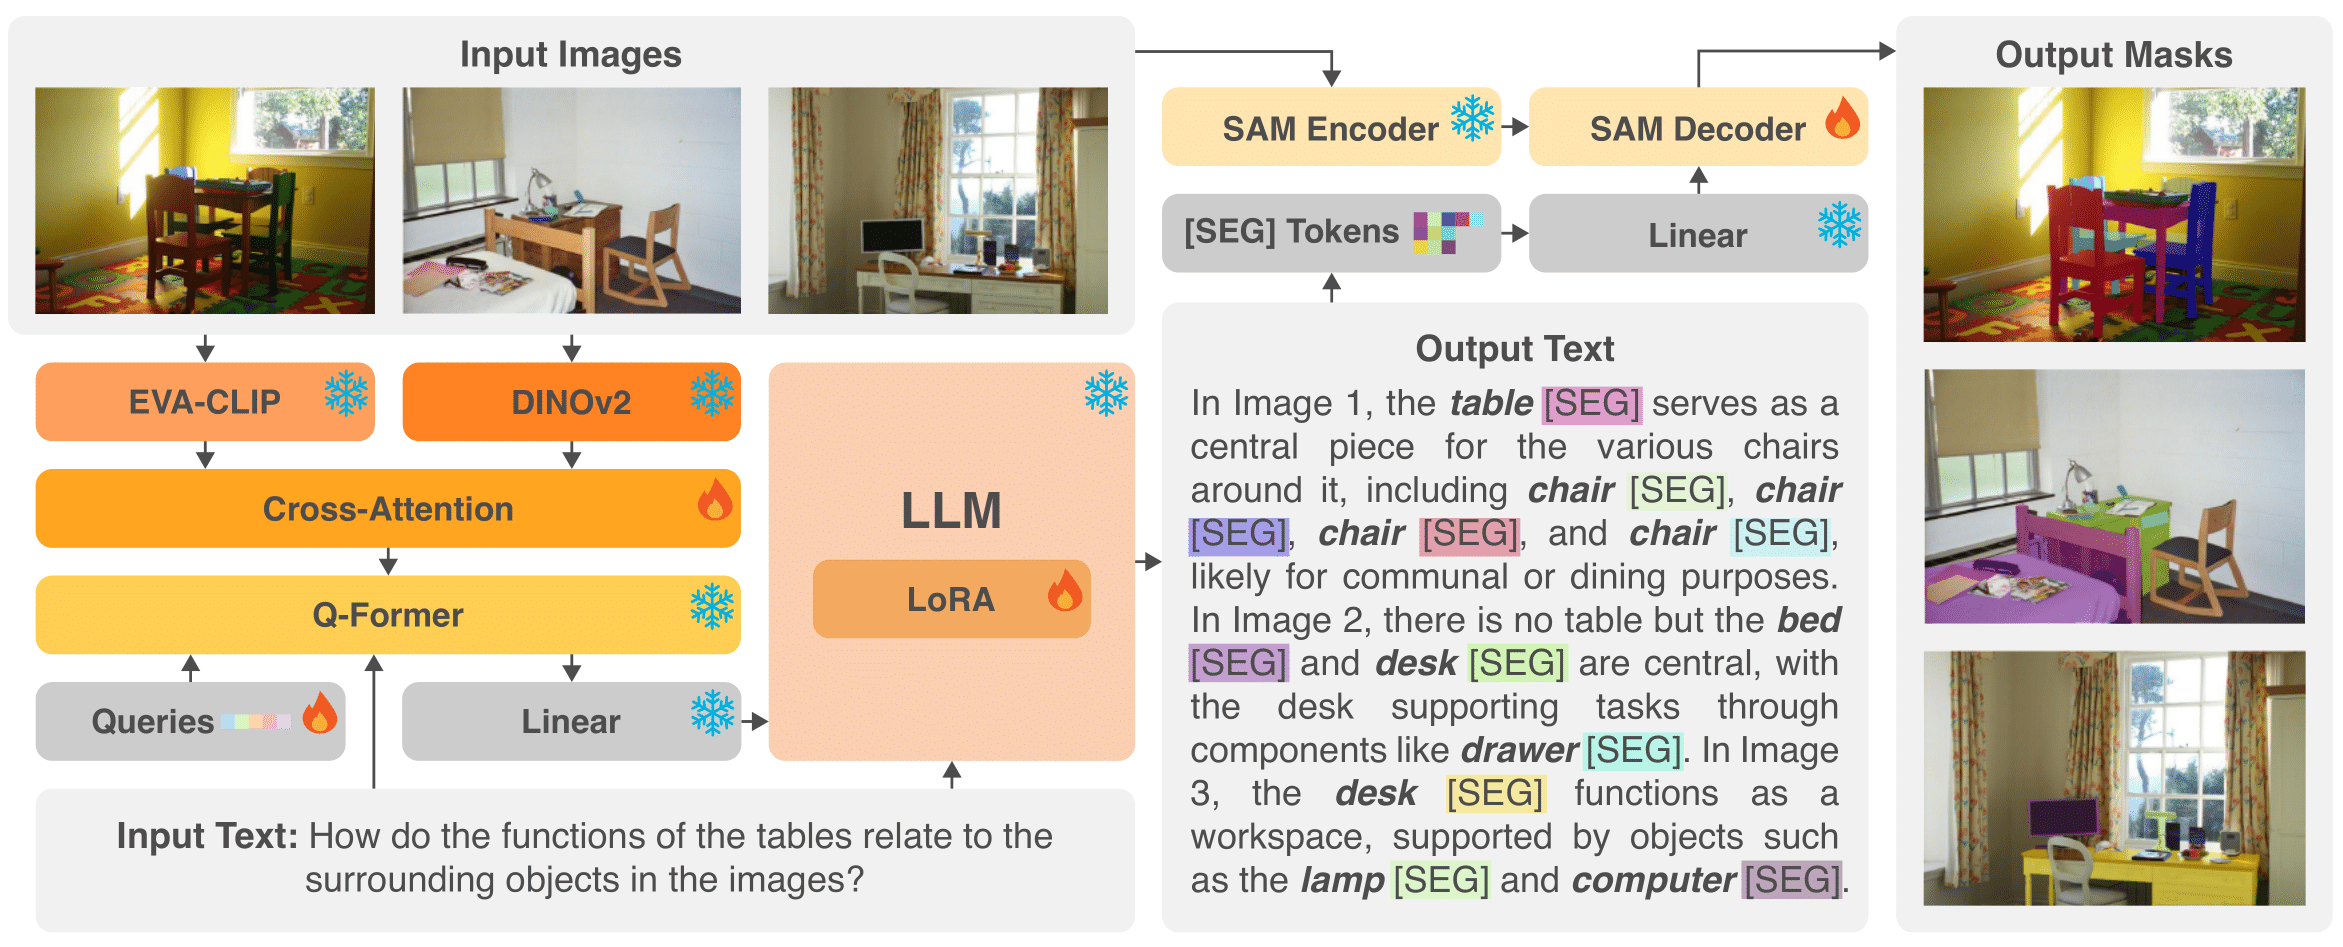
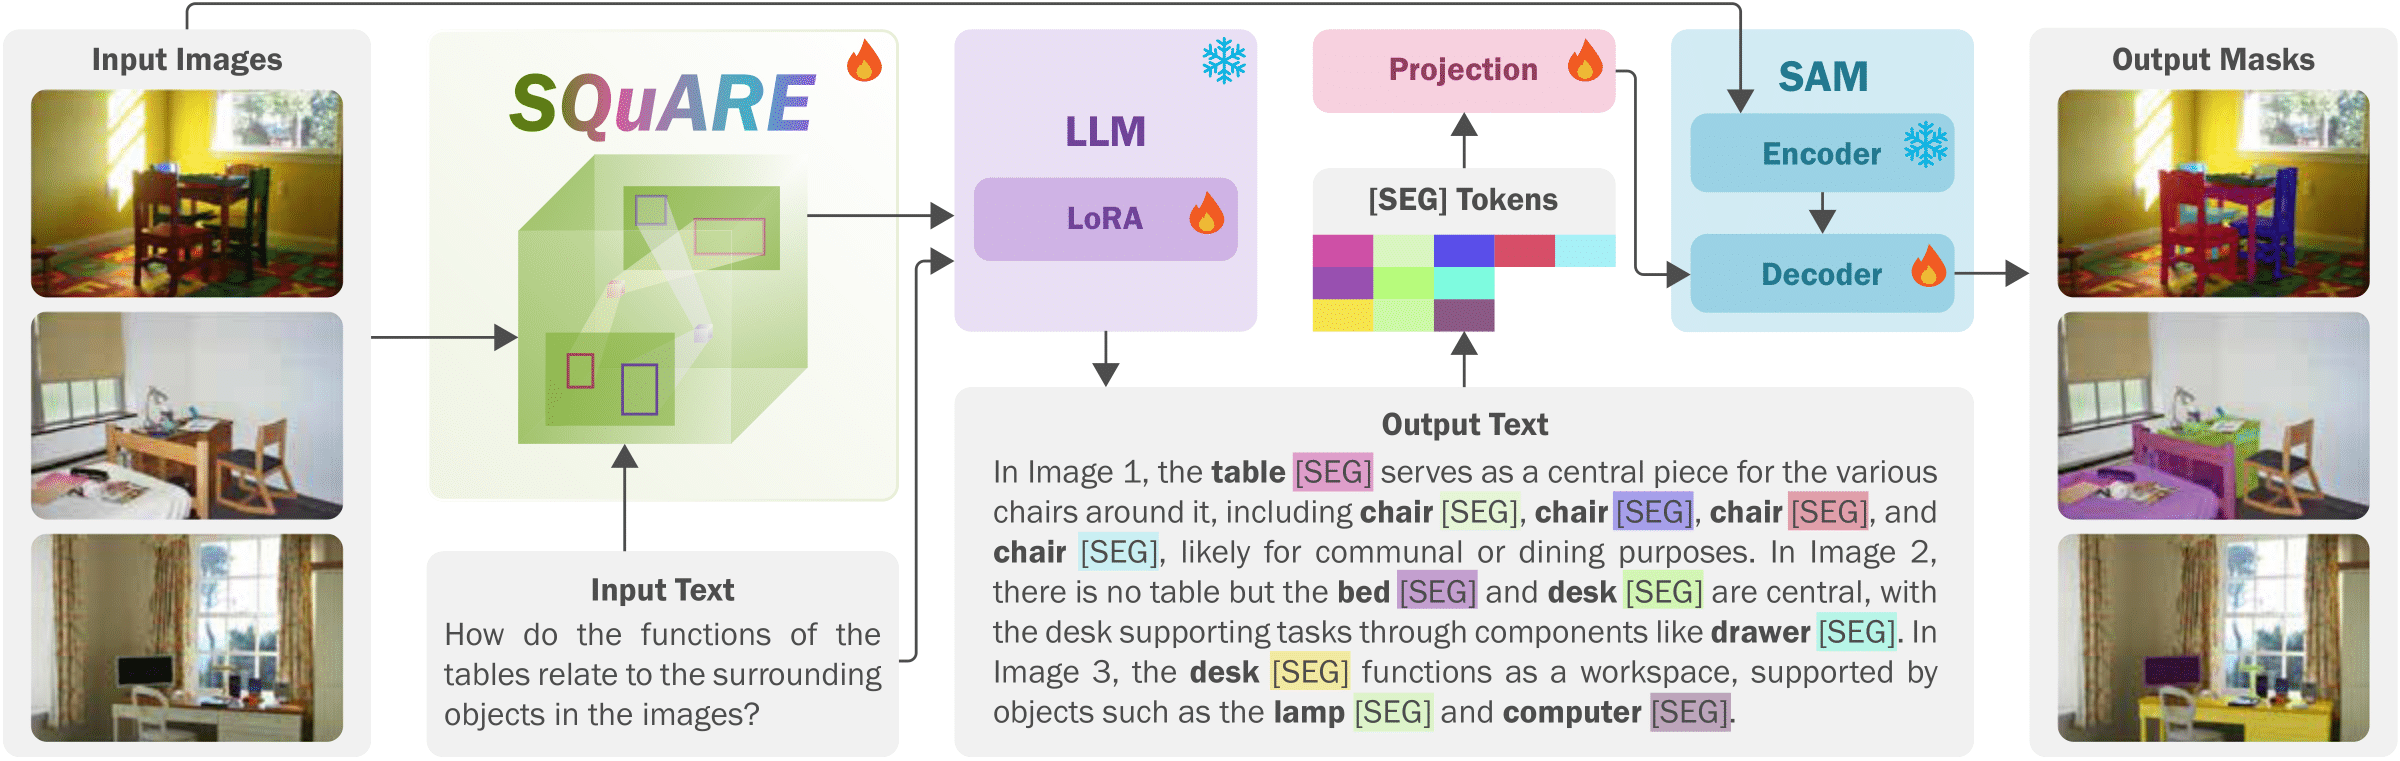
project  updatepdate

diff --git a/projects/prima/index.html b/projects/prima/index.html
@@ -146,7 +146,7 @@
         <div class="content has-text-justified">
           <span style="font-weight: bold;">TL;DR:</span> We introduce
           the task of <span style="font-style: italic;">multi-image pixel-grounded reasoning segmentation</span>,
-          with the release of the <span class="model-name">M<sup>4</sup>Seg</span> benchmark consisting of ∼224K
+          with the release of the <span class="model-name">M<sup>4</sup>Seg</span> benchmark consisting of ∼744K
           question-answer pairs
           that require fine-grained visual understanding across multiple images,
           and the <span class="model-name">PRIMA</span> LVLM model that combines
@@ -155,10 +155,15 @@
         <img src="./static/images/prima_teaser.png" class="interpolation-image"
           alt="Interpolate start reference image." />
         <div class="content has-text-justified">
-          Our proposed <span style="font-style: italic;">multi-image pixel-grounded reasoning segmentation</span> task
-          at both object and part levels, where the goal is to achieve fine-grained comparison and contextual
-          understanding
-          across multiple images at pixel level and produce responses grounded in specific objects and parts.
+          We introduce the new task of 
+          <span style="font-style: italic; font-weight: bold;">multi-image pixel-grounded reasoning segmentation</span>. 
+          To support this task, we curate <span class="model-name">M<sup>4</sup>Seg</span>, 
+          a benchmark providing question-answer (QA) pairs alongside image sets with 
+          pixel-level annotations. Additionally, we propose 
+          <span class="model-name">PRIMA</span>, a model trained on 
+          <span class="model-name">M<sup>4</sup>Seg</span>, designed to efficiently identify 
+          and compare objects' contextual relationships across scenes. 
+          We focus on four key categories essential for multi-image understanding: functional, spatial, numerical, and open-ended reasoning.
         </div>
       </div>
     </div>
@@ -173,22 +178,24 @@
           <h2 class="title is-3">📝 Abstract</h2>
           <div class="content has-text-justified">
             <p>
-              Despite significant advancements in Large Vision-Language Models (LVLMs),
-              existing pixel-grounding models operate on single-image settings,
-              limiting their ability to perform detailed, fine-grained comparisons across multiple images.
-              Conversely, current multi-image understanding models lack pixel-level grounding.
-              Our work addresses this gap by introducing the task of
+              Despite significant advancements in Large Vision-Language Models (LVLMs)' capabilities, 
+              existing pixel-grounding models operate in single-image settings, 
+              limiting their ability to perform detailed, fine-grained comparisons across 
+              multiple images. Conversely, current multi-image understanding models lack 
+              pixel-level grounding. Our work addresses this gap by introducing the task of 
               <span style="font-style: italic; font-weight: bold;">multi-image pixel-grounded reasoning
-                segmentation</span>,
-              and <span class="model-name">PRIMA</span>, a novel LVLM that integrates pixel-level grounding with robust
-              multi-image reasoning capabilities
-              to produce contextually rich, pixel-grounded explanations.
-              Central to PRIMA is an efficient vision module that queries fine-grained visual representations
-              across multiple images, reducing TFLOPs by 25.3%. To support training and evaluation,
-              we curate <span class="model-name">M<sup>4</sup>Seg</span>, a new reasoning segmentation benchmark
-              consisting of ∼224K question-answer pairs
-              that require fine-grained visual understanding across multiple images.
-              Experimental results demonstrate PRIMA outperforms state-of-the-art baselines.
+                segmentation</span> alongside <span class="model-name">PRIMA</span>, 
+                an LVLM that integrates pixel-level grounding with robust multi-image reasoning 
+                to produce contextually rich, pixel-grounded explanations. 
+                Central to <span class="model-name">PRIMA</span> is <span class="model-name">SQuARE</span>, 
+                a vision module that injects cross-image relational context into compact query-based 
+                visual tokens before fusing them with the language backbone. 
+                To support training and evaluation, we curate <span class="model-name">M<sup>4</sup>Seg</span>, a new multi-image reasoning 
+                segmentation benchmark consisting of ~744K question-answer pairs that require 
+                fine-grained visual understanding across multiple images. 
+                <span class="model-name">PRIMA</span> outperforms state-of-the-art baselines with 7.83% and 11.25% improvements 
+                in Recall and S-IoU, respectively. Ablation studies further demonstrate the 
+                effectiveness of the proposed SQuARE module in capturing cross-image relationships.
             </p>
           </div>
         </div>
@@ -208,31 +215,27 @@
               <li><span class="fa-li"><i class="fa fa-star" style="color:#FFD700"></i></span><b>Novel Task</b>. We
                 propose the novel task of
                 <span style="font-style: italic; font-weight: bold;">multi-image pixel-grounded reasoning
-                  segmentation</span>,
-                which necessitates fine-grained comparison and contextual understanding
-                across multiple images at the pixel level, requiring models
-                to produce responses grounded in specific objects and parts.
+                  segmentation</span>, which requires fine-grained comparison and contextual 
+                  understanding across multiple images at pixel level and natural language reasoning.
               </li>
               <br>
               <li><span class="fa-li"><i class="fa fa-star" style="color:#FFD700"></i></span><b>New Benchmark</b>. We
-                introduce
-                <span class="model-name">M<sup>4</sup>Seg</span>, a new challenging benchmark with over 224K multi-image
-                QA pairs,
-                annotated with multiple object and part segmentation masks to enable and evaluate
-                pixel-grounded multi-image visual understanding.
+                curate
+                <span class="model-name">M<sup>4</sup>Seg</span>, a new challenging benchmark with ~744K multi-image QA 
+                pairs, annotated with multiple object and part segmentation masks to train and evaluate 
+                multi-image pixel-grounding models.
               </li>
               <br>
               <li><span class="fa-li"><i class="fa fa-star" style="color:#FFD700"></i></span><b>New Multi-Image
                   Pixel-Grounded LVLM</b>. We propose
                 <span class="model-name">PRIMA</span>,
-                a vision-language model specifically designed for this new task. Unlike existing models,
-                <span class="model-name">PRIMA</span> excels in generating natural language responses
-                accompanied by contextually grounded segmentations across multiple images.
-                <span class="model-name">PRIMA</span> is optimized for computational efficiency
-                by incorporating a cross-modal attention mechanism, which enables instruction-guided alignment
-                of relevant visual features across images, reducing overhead while maintaining high accuracy in
-                pixel-level reasoning. Extensive experiments demonstrate <span class="model-name">PRIMA</span>’s
-                performance and efficiency against strong baselines.
+                an LVLM designed to perform instruction-guided cross-image alignment of relevant visual features via a 
+                novel <span class="model-name">SQuARE</span> module, enabling reasoning with contextually grounded segmentation masks across multiple 
+                images. Experiments demonstrate <span class="model-name">PRIMA</span>'s impressive performance 
+                compared to strong baselines across segmentation (<span style="color: #6B8E23; font-weight: bold;">+↑</span>8.11% mIoU 
+                and <span style="color: #6B8E23; font-weight: bold;">+↑</span>7.83% Recall) and text-based metrics 
+                (<span style="color: #6B8E23; font-weight: bold;">+↑</span>6.45% Semantic Similarity and 
+                <span style="color: #6B8E23; font-weight: bold;">+↑</span>11.25% S-IoU). 
               </li>
               </ol>
           </div>
@@ -252,13 +255,26 @@
           <div class="content has-text-justified">
             <img src="./static/images/prima_arch.png" class="interpolation-image" alt="PRIMA Model Architecture." />
             <p>
-              <span class="model-name">PRIMA</span> integrates a multi-image vision encoder that combines DINOv2
-              for dense semantic feature extraction and Q-Former’s selective query-based cross-attention
-              to fuse relevant representations across images. The encoder outputs are mapped to a shared
-              semantic space to facilitate precise pixel-level multi-image grounding.
-              Leveraging a LoRA-finetuned language model and a SAM-based decoder,
-              PRIMA dynamically generates segmentation masks corresponding to objects and parts
-              referenced in natural language queries, supporting pixel-grounded reasoning in complex multi-image tasks.
+              Overview of the proposed <span class="model-name">PRIMA</span> architecture. Leveraging a LoRA-finetuned language model, a novel SQUARE vision encoder, and a SAM-based decoder, PRIMA dynamically generates segmentation masks corresponding to objects referenced in natural language queries, supporting pixel-grounded reasoning in complex multi-image tasks.
+            </p>
+          </div>
+        </div>
+      </div>
+    </div>
+  </section>
+
+  <section class="section">
+    <div class="container is-max-desktop">
+      <div class="columns is-centered has-text-centered">
+        <div class="column">
+          <h2 class="title is-3"><span class="model-name"><img src="static/images/prima_ballerina.svg" alt="PRIMA logo"
+                width="40px"> SQuARE</span> module</h2>
+          <div class="content has-text-justified">
+            <div style="text-align: center;">
+              <img src="./static/images/prima_arch_square.png" class="interpolation-image" alt="SQuARE Module." width="50%" />
+            </div>
+            <p>
+              Our proposed <span class="model-name">SQuARE</span> module. Learnable relational queries attend over the concatenated multi-image features to form a shared relational representation. This representation is injected into the query pathway for global feature extraction, producing enriched visual representations that capture cross-image interactions.
             </p>
           </div>
         </div>
@@ -275,11 +291,17 @@
             <div style="text-align: center; padding: 0 0 20px 0;">
               <img src="./static/images/results.png" class="interpolation-image" alt="PRIMA results." width="85%" />
               <p class="has-text-justified">
-                Experimental Results on <span class="model-name">M<sup>4</sup>Seg</span>.
-                We report performance metrics for segmentation (mIoU and Recall) and reasoning
-                (Semantic Similarity and S-IoU) to evaluate each model's ability in multi-image pixel-grounded
-                reasoning segmentation. Computational efficiency metrics (TFLOPs and #samples/sec.) showcase
-                <span class="model-name">PRIMA</span>’s optimized processing for multi-image tasks.
+                Experimental Results on <span class="model-name">M<sup>4</sup>Seg</span>. 
+                <span class="model-name">PRIMA</span> significantly outperforms both general-purpose and pixel-grounding LVLM 
+                baselines. The general-purpose LVLMs struggle with this task, a limitation we attribute 
+                to their lack of task-specific training and cascading errors from using SAM on the text-based 
+                grounding information. While Gemini-2.5 Pro is the top performer in this category, its 
+                performance remains limited with 30.21% mIoU and 68.51% SS. The reasoning segmentation 
+                baselines perform better, as they leverage pixel grounding capabilities and are finetuned on 
+                <span class="model-name">M<sup>4</sup>Seg</span>. GLaMM, for instance, outperforms the general-purpose LVLMs with 38.12% 
+                mIoU and 74.05% SS. Compared to all baselines, <span class="model-name">PRIMA</span> sets a new benchmark, surpassing 
+                the next best baseline by 8.11% and 12.33% in terms of mIoU and I-SS, respectively. 
+                <span class="model-name">PRIMA</span> also achieves a gain of up to 6.45% and 11.25% on the text metrics SS and SIoU.
               </p>
 
             </div>
@@ -287,6 +309,35 @@
         </div>
       </div>
     </div>
+    </div>
+  </section>
+
+  <section class="section">
+    <div class="container is-max-desktop">
+      <div class="columns is-centered has-text-centered">
+        <div class="column">
+          <h2 class="title is-3">🔎 Qualitative Examples</h2>
+          <div class="content has-text-justified">
+            <div style="text-align: center; padding: 0 0 20px 0;">
+              <img src="./static/images/qualitative.png" class="interpolation-image"
+                alt="Qualitative Examples." width="85%" />
+            </div>
+          </div>
+          <div class="content has-text-justified">
+            Qualitative Results. <span class="model-name">PRIMA</span> exhibits strong qualitative performance 
+            in both segmentation and reasoning. Each example shows the posted question, the textual 
+            responses from each model, and the corresponding segmentation masks alongside the Ground 
+            Truth reference. For clarity, we use consistent colors between the segmentation masks 
+            and the highlighted text spans referring to each object or part. The results indicate that 
+            <span class="model-name">PRIMA</span> produces high-quality textual responses together with crisp, well-localized 
+            segmentation masks, whereas GLaMM often yields noisy masks, attends to incorrect objects 
+            (e.g., treating the cabinet as a surface for placing small items), and hallucinates 
+            categories (e.g., misidentifying the horse as a truck or a dog). We also include a 
+            failure case in which <span class="model-name">PRIMA</span> predicts the correct number of objects but fails to 
+            precisely distinguish individual instances, instead producing overlapping masks.
+          </div>
+        </div>
+      </div>
     </div>
   </section>
 
@@ -302,8 +353,14 @@
             </div>
           </div>
           <div class="content has-text-justified">
-            <span class="model-name">PRIMA</span>’s performance on unseen images found on the web.
-            For conciseness, we only visualize relevant segmentation masks.
+            <span class="model-name">PRIMA</span>'s performance on unseen images found on the web. 
+            Notably, our model generates consistently superior segmentation masks compared to baselines, 
+            as exemplified by the fine-grained details of the hammers in Example 3 and the dining chairs 
+            in Example 4. Moreover, we observe that the baselines are more prone to hallucinations, 
+            e.g., "pizza is shown with multiple slices" in the first example (GLaMM), "watch" 
+            in the second example (both GLaMM and LISA). Beyond visual recognition, these examples 
+            underscore <span class="model-name">PRIMA</span>'s capability to retain compositional reasoning capabilities when 
+            transferring to diverse and noisy real-world images.
           </div>
         </div>
       </div>
